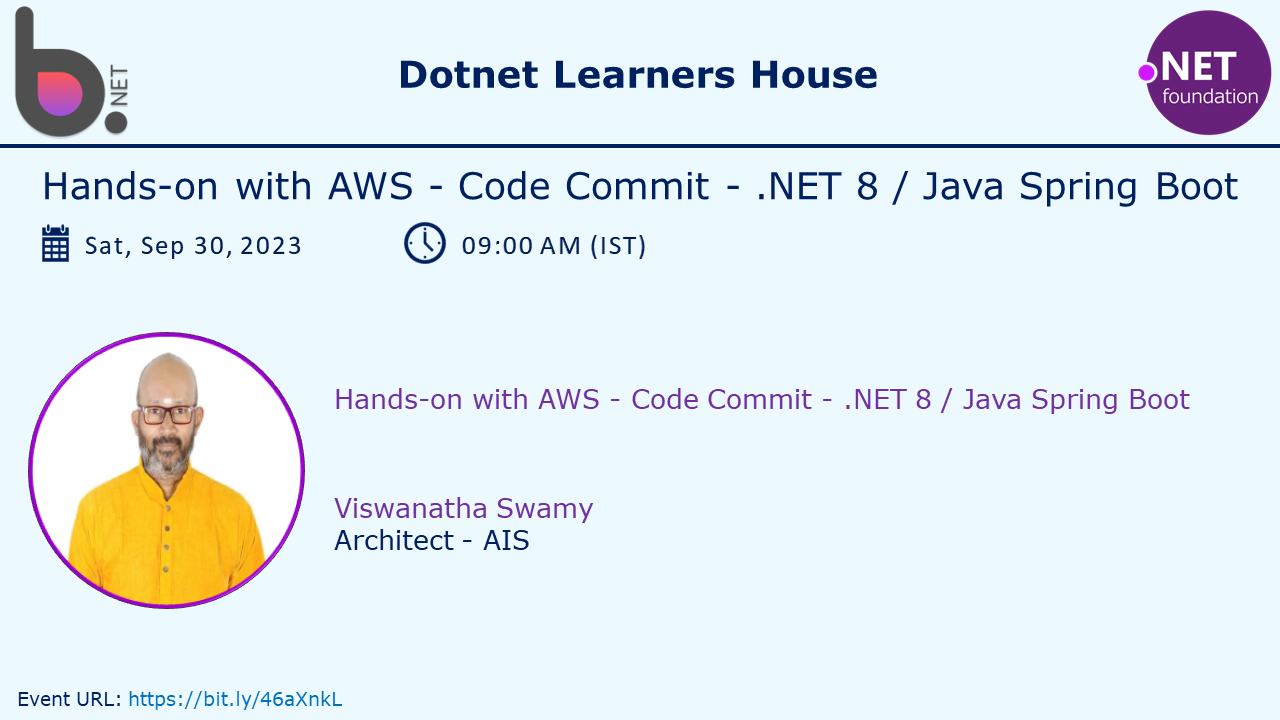
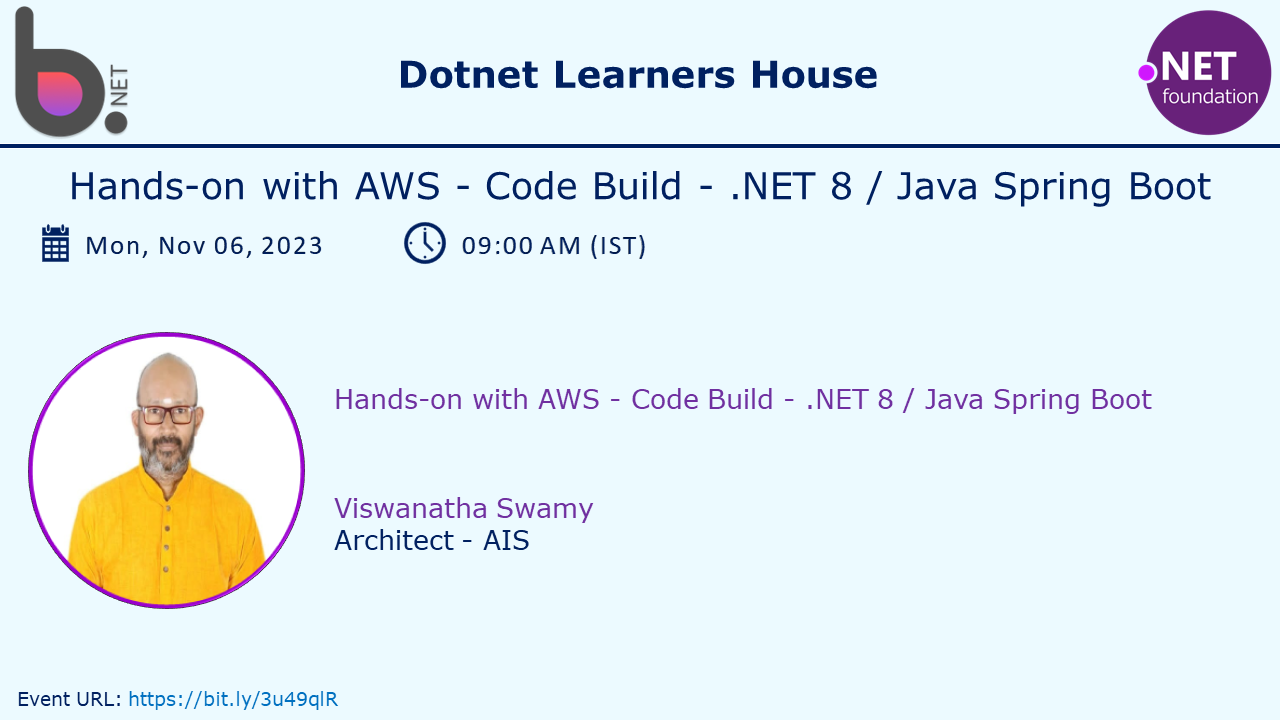
Changes

diff --git a/dotnet-6-on-aws/20231106_codebuild/README.md b/dotnet-6-on-aws/20231106_codebuild/README.md
@@ -1,8 +1,8 @@
-# Hands-on with AWS - Code Commit - .NET 8 / Java Spring Boot
+# Hands-on with AWS - Code Build - .NET 8 / Java Spring Boot
 
-## Date Time: 30-Sep-2023 at 09:00 AM IST
+## Date Time: 06-Nov-2023 at 09:00 AM IST
 
-## Event URL: [https://www.meetup.com/dot-net-learners-house-hyderabad/events/295456967](https://www.meetup.com/dot-net-learners-house-hyderabad/events/295456967)
+## Event URL: [https://www.meetup.com/dot-net-learners-house-hyderabad/events/296075156](https://www.meetup.com/dot-net-learners-house-hyderabad/events/296075156)
 
 ## YouTube URL: [https://www.youtube.com/watch?v=h6l1GoE8qfw](https://www.youtube.com/watch?v=h6l1GoE8qfw)
 
